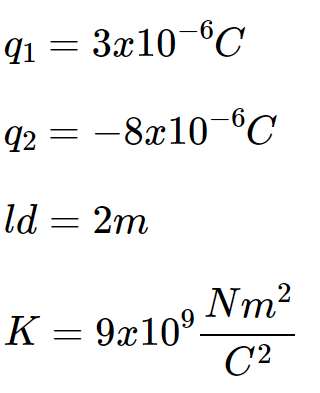
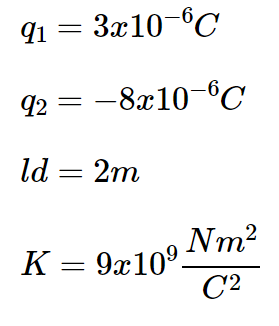
Update finish fisica
terminado la rama de fisica

diff --git a/lib/src/temas/Fisica/CampoElectrico/Pages/ejercicio_CE.dart b/lib/src/temas/Fisica/CampoElectrico/Pages/ejercicio_CE.dart
@@ -4,45 +4,116 @@ import 'package:flutter/material.dart';
 import 'package:google_fonts/google_fonts.dart';
 
 class ejercicio_CE extends StatelessWidget {
-  const ejercicio_CE({Key? key}) : super(key: key);
+  late String respuesta;
+  final _keyForm = GlobalKey<FormState>();
 
   @override
   Widget build(BuildContext context) {
+    Size size = MediaQuery.of(context).size;
     return Scaffold(
-      body: Column(
-        children: <Widget>[
-          SizedBox(
-            height: 26,
+      backgroundColor: Colors.white,
+      body: SafeArea(
+        child: SingleChildScrollView(
+          child: Container(
+            width: double.infinity,
+            child: Form(
+              key: _keyForm,
+              child: Column(
+                mainAxisAlignment: MainAxisAlignment.start,
+                children: [
+                  customAppBar(
+                    context,
+                  ),
+                  barra(
+                    context,
+                  ),
+                  cuerpo(context),
+                  SizedBox(
+                    height: 5,
+                  ),
+                  Container(
+                    width: double.infinity,
+                    padding: EdgeInsets.all(15),
+                    child: Column(
+                      crossAxisAlignment: CrossAxisAlignment.center,
+                      children: [
+                        Text(
+                          ' ¿Cuál es entonces, la intensidad del campo en P?',
+                          textAlign: TextAlign.justify,
+                          style: GoogleFonts.redHatDisplay(
+                            fontSize: 22,
+                            // fontWeight: FontWeight.bold,
+                            letterSpacing: 1.2,
+                          ),
+                        ),
+                        SizedBox(
+                          height: 30,
+                        ),
+                        TextFormField(
+                          validator: (valor) {
+                            if (valor!.isEmpty) {
+                              return 'numero vacio';
+                            }
+
+                            if (valor != '7.5*10^-2 N' &&
+                                valor != '7,5*10^-2 N' &&
+                                valor != '7,5*10^-2N' &&
+                                valor != '7.5*10^-2N' &&
+                                valor != '7.5x10^-2 N' &&
+                                valor != '7.5x10^-2' &&
+                                valor != '7,5*10^-2') {
+                              return 'Respuesta incorrecta';
+                            }
+
+                            return null;
+                          },
+                          keyboardType: TextInputType.text,
+                          decoration: InputDecoration(
+//                            icon: Icon(Icons.calendar_view_day),
+                            labelText: 'Ingrese su respuesta',
+                            border: OutlineInputBorder(),
+                            isDense: false,
+                            contentPadding: EdgeInsets.all(10),
+                          ),
+                        ),
+                        SizedBox(
+                          height: 30,
+                        ),
+                        Container(
+                          width: 118,
+                          height: 40,
+                          child: RaisedButton(
+                            child: Text(
+                              'Comprobar',
+                              style:
+                                  TextStyle(color: Colors.white, fontSize: 16),
+                            ),
+                            color: Colors.blue[600],
+                            onPressed: () {
+                              if (_keyForm.currentState!.validate()) {
+                                print('Correcto');
+                                Navigator.pushNamed(context, "CorrectoFisica");
+                              } else {
+                                print("Ha ocurrido un error");
+                                Navigator.pushNamed(
+                                    context, "ej2campoElectrico");
+                              }
+                            },
+                          ),
+                        ),
+                        SizedBox(
+                          height: 30,
+                        ),
+                        botonFinal(context),
+                      ],
+                    ),
+                  ),
+                ],
+              ),
+            ),
           ),
-          customAppBar(context),
-          listaVertical(context),
-        ],
+        ),
       ),
-    );
-  }
-
-  Widget listaVertical(context) {
-    return Column(
-//      mainAxisAlignment: MainAxisAlignment.spaceEvenly,
-      crossAxisAlignment: CrossAxisAlignment.start,
-
-      children: <Widget>[
-        const Padding(
-          padding: EdgeInsets.symmetric(horizontal: 100, vertical: 0),
-        ),
-        SizedBox(
-          height: 583,
-          child: ListView(
-            scrollDirection: Axis.vertical,
-            children: <Widget>[
-              barra(context),
-              //formula(context),
-              cuerpo(context),
-              botonFinal(context),
-            ],
-          ),
-        ),
-      ],
     );
   }
 
@@ -98,7 +169,7 @@ class ejercicio_CE extends StatelessWidget {
         children: <Widget>[
           // Figma Flutter Generator EselestadoalquesellegaalfinaldecualquiersistemaqumicolaexpresinmatemticaquerepresentaalequilibrioqumicoseconocecomoleydeaccindemasasparacualquierreaccinWidget - TEXT
           Text(
-            'Dada la imagen, y asumiendo que se coloca una carga q = 2*10^-7 C, y en ella actúa una fuerza F= 5*10^-2N, ¿Cuál es entonces, la intensidad del campo en P?\n',
+            'Dada la imagen, y asumiendo que se coloca una carga q = 2*10^-7 C, y en ella actúa una fuerza F= 5*10^-2N\n',
             style: GoogleFonts.redHatDisplay(
               fontSize: 18,
               letterSpacing: 1.2,

diff --git a/lib/src/temas/Fisica/CampoElectrico/Pages/ejercicio2_CE.dart b/lib/src/temas/Fisica/CampoElectrico/Pages/ejercicio2_CE.dart
@@ -98,7 +98,7 @@ class ejercicio2_CE extends StatelessWidget {
         children: <Widget>[
           // Figma Flutter Generator EselestadoalquesellegaalfinaldecualquiersistemaqumicolaexpresinmatemticaquerepresentaalequilibrioqumicoseconocecomoleydeaccindemasasparacualquierreaccinWidget - TEXT
           Text(
-            'Solucion:\n',
+            'Solucion:',
             style: GoogleFonts.redHatDisplay(
               fontSize: 18,
               color: const Color.fromRGBO(245, 136, 35, 1),
@@ -109,41 +109,39 @@ class ejercicio2_CE extends StatelessWidget {
             'Para poder solucionar el problema, basta nuevamente en colocar nuestros datos en la fórmula.',
             style: GoogleFonts.redHatDisplay(
               fontSize: 18,
-              color: const Color.fromRGBO(245, 136, 35, 1),
               letterSpacing: 1.2,
             ),
           ),
           Image.asset(
             "assets/imgs/image35.png",
-            width: 450,
-            height: 250,
+            width: 260,
+            height: 80,
+            scale: 0.5,
           ),
           Text(
             'Al retirar la carga q y colocar en P una carga positiva de ',
             style: GoogleFonts.redHatDisplay(
               fontSize: 18,
-              color: const Color.fromRGBO(245, 136, 35, 1),
               letterSpacing: 1.2,
             ),
           ),
           Image.asset(
             "assets/imgs/image36.png",
-            width: 450,
-            height: 250,
+            width: 200,
+            height: 100,
+            scale: 0.5,
           ),
           Text(
             '¿Cuál será el valor de la fuerza F que actuará sobre esa carga, y cuál es el sentido del movimiento que tenderá a adquirir?\nPara poder solucionar esta parte, es necesario sustituir el nuevo valor de la carga en la fórmula, Pero con la condición de que ahora la fuerza será la incógnita, es decir:',
             style: GoogleFonts.redHatDisplay(
               fontSize: 18,
-              color: const Color.fromRGBO(245, 136, 35, 1),
               letterSpacing: 1.2,
             ),
           ),
           Text(
-            'F = qE ',
+            '\nF = qE\n ',
             style: GoogleFonts.redHatDisplay(
               fontSize: 35,
-              color: const Color.fromRGBO(245, 136, 35, 1),
               letterSpacing: 1.2,
             ),
           ),
@@ -151,19 +149,20 @@ class ejercicio2_CE extends StatelessWidget {
             'Hemos despejado F de la ecuación de campo eléctrico, entonces después de esto reemplazamos los datos ',
             style: GoogleFonts.redHatDisplay(
               fontSize: 18,
-              color: const Color.fromRGBO(245, 136, 35, 1),
               letterSpacing: 1.2,
             ),
           ),
           Image.asset(
             "assets/imgs/image37.png",
             width: 450,
-            height: 250,
+            height: 100,
+            scale: 0.6,
           ),
           Image.asset(
             "assets/imgs/image38.png",
             width: 450,
-            height: 250,
+            height: 100,
+            scale: 0.6,
           ),
         ],
       ),

diff --git a/lib/main.dart b/lib/main.dart
@@ -19,6 +19,7 @@ import 'src/pages/home_quimica.dart';
 import 'src/pages/practica.dart';
 import 'src/pages/practica2.dart';
 import 'src/temas/Fisica/CampoElectrico/Pages/aplicacion_CE.dart';
+import 'src/temas/Fisica/CampoElectrico/Pages/ejercicio2_CE.dart';
 import 'src/temas/Fisica/CampoElectrico/Pages/ejercicio_CE.dart';
 import 'src/temas/Fisica/LeyCoulomb/Pages/Aplicacion1_LC.dart';
 import 'src/temas/Fisica/LeyCoulomb/Pages/Ejemplo1_LC.dart';
@@ -170,7 +171,8 @@ class MyApp extends StatelessWidget {
         //Campo Electrico
         "explcampoElectrico": (_) => const Explicacion_CE(),
         "ejemcampoElectrico": (_) => const Ejemplo_CE(),
-        "ejcampoElectrico": (_) => const ejercicio_CE(),
+        "ejcampoElectrico": (_) => ejercicio_CE(),
+        "ej2campoElectrico": (_) => const ejercicio2_CE(),
         "apcampoElectrico": (_) => const aplicacion_CE(),
 
         "back_CE": (_) => const home_campoElectrico(),
